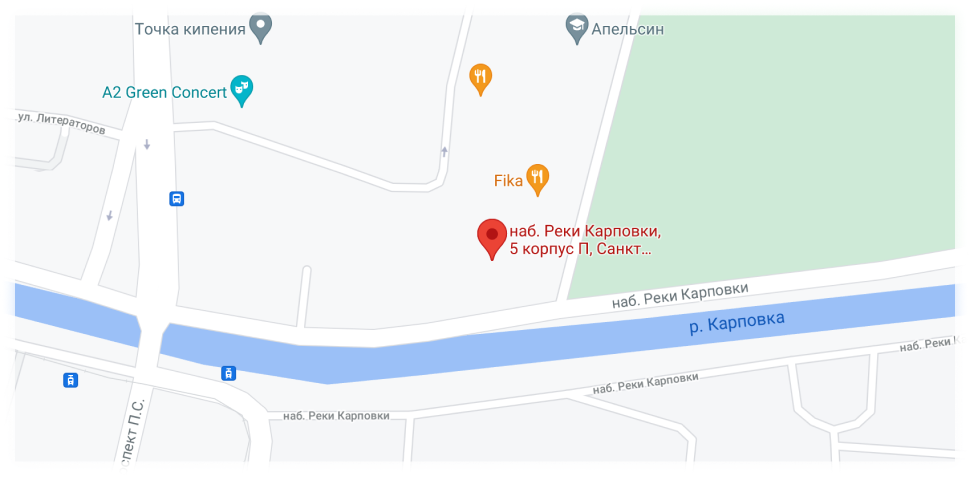
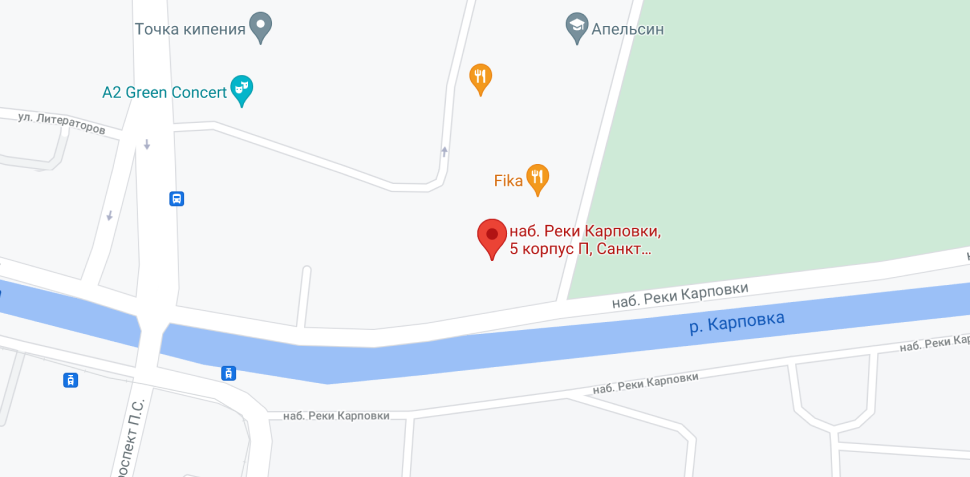
доделал поп ап с картой

diff --git a/index.html b/index.html
@@ -755,7 +755,7 @@
 
   </footer>
 
-  <div class="feedback-pop-up ">
+  <div class="feedback-pop-up display-none">
 
     <button class="pop-up__close-btn" type="button" aria-label="закрыть окно" tabindex="0">
 
@@ -799,7 +799,7 @@
 
   </div>
 
-  <div class="map-pop-up ">
+  <div class="map-pop-up display-none">
 
     <button class="pop-up__close-btn" type="button" aria-label="закрыть окно" tabindex="0">
 
@@ -807,13 +807,13 @@
 
     <a href="blank.html">
 
-      <img src="img/map.png" alt="карта проезда до офиса техномарт" width="943" height="449">
+      <img class="map-pop-up__img" src="img/map.png" alt="карта проезда до офиса техномарт" width="943" height="449">
 
     </a>
 
   </div>
 
-  <div class="sucсess-pop-up">
+  <div class="sucсess-pop-up display-none">
 
     <button class="pop-up__close-btn" type="button" aria-label="закрыть окно" tabindex="0">
     </button>

diff --git a/styles/css/main.css b/styles/css/main.css
@@ -2283,13 +2283,14 @@ img{
 
 .map-pop-up{
     position: relative;
+    
     width: 943px;
     height: 449px;
     margin: 0 auto;
     
     box-shadow: 0px 4px 20px var(--box-shadow);
     box-sizing: border-box;
-    
+    overflow:hidden;
 }
 
 .map-pop-up::before{
@@ -2300,6 +2301,11 @@ img{
     width: 100%;
     height: 7px;
     background-color: var(--red);
+}
+
+
+.map-pop-up__img{
+    margin-top: -12px;
 }
 
 /**************************************************************/
